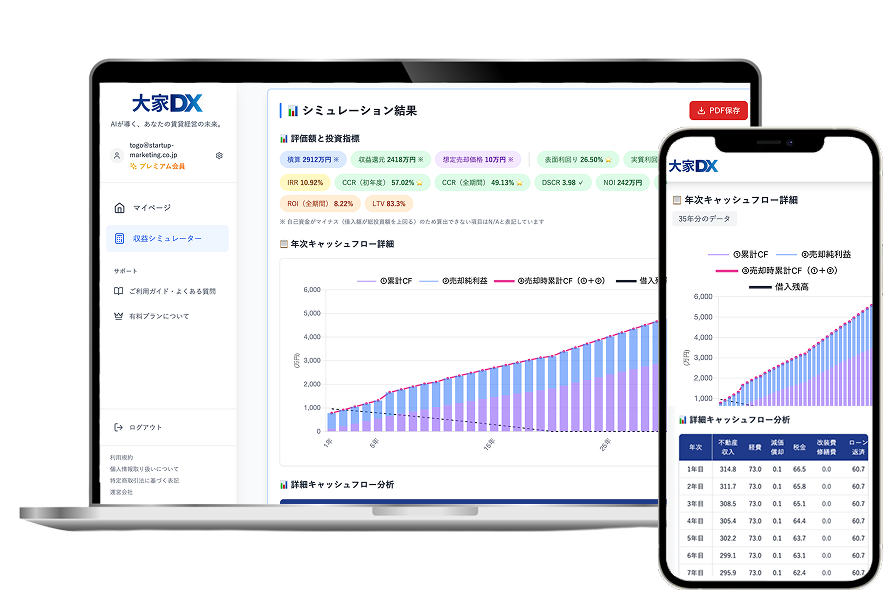
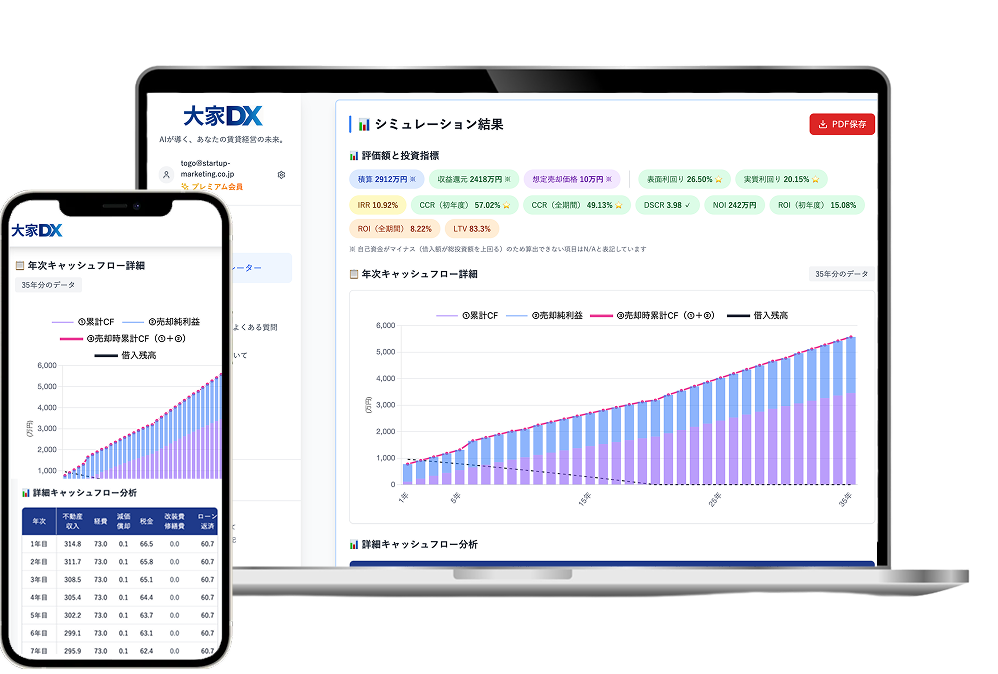
feat: ランディングページのコンテンツとデザインを改善
- ヒーローセクションのタイトルを「不動産投資シミュレーター」に変更
- サブタイトルを融資・税務関連の内容に更新
- 「大家DXとは？」セクションを追加し、サービス説明を充実化
- 機能説明を3つに拡張（1分分析、スマホ管理、出口＆PDF）
- メインビジュアル画像（kakushin_img01.png）を更新
- 画像配置とテキストレイアウトを最適化

🤖 Generated with [Claude Code](https://claude.ai/code)

Changed region(s): [[0.0, 0.0908, 1.0, 0.9983], [0.3345, 0.484, 0.3953, 0.605]]

diff --git a/bolt_front/src/pages/LandingPage.tsx b/bolt_front/src/pages/LandingPage.tsx
@@ -58,15 +58,21 @@ const LandingPage: React.FC = () => {
   const features = [
     {
       icon: Calculator,
-      title: "機能1. 1分で完了する物件分析",
-      description: "物件情報を入力するだけで、IRR・CCR・DSCRなどの投資指標を自動計算。もうExcelで悩む必要はありません。",
+      title: "機能1. 1分分析",
+      description: "入力は最小限。IRR/DSCR/LTV/NOI と 35年CF、3価を一括算出。",
       image: "/img/feature_1.png"
     },
     {
       icon: Smartphone,
-      title: "機能2. スマホで完結する資産管理",
-      description: "授乳中でも、通勤中でも。親指だけでサクサク操作できるモバイル完全対応設計。",
+      title: "機能2. スマホ完結の物件管理",
+      description: "物件の保存・比較／URL・写真・メモ。減価償却／資本的支出も自動反映。",
       image: "/img/feature_2.png"
+    },
+    {
+      icon: CheckCircle,
+      title: "機能3. 出口＆PDF",
+      description: "CapRate等から売却価格・残債・純利益を自動計算。主要指標／年次CFをPDF化。",
+      image: "/img/feature_3.png"
     }
   ];
 
@@ -157,16 +163,15 @@ const LandingPage: React.FC = () => {
         <div className="max-w-7xl mx-auto px-4 sm:px-6 lg:px-8 relative z-10">
           <div className="grid grid-cols-1 lg:grid-cols-2 gap-12 items-center">
             {/* 左側：メインコピー */}
-            <div className="text-center lg:text-left">
+            <div className="text-left">
               <div className="mb-6">
               </div>
               <h1 className="text-4xl md:text-5xl lg:text-6xl font-bold text-gray-900 mb-8" style={{ lineHeight: '1.4' }}>
-                <span className="text-3xl md:text-4xl lg:text-5xl" style={{ fontSize: '85%' }}>現役大家が開発した、</span><br />
-                <span className="text-5xl md:text-6xl lg:text-7xl">賃貸経営DX</span>
+                <span className="text-3xl md:text-4xl lg:text-5xl" style={{ fontSize: '85%' }}>現役大家が開発した</span><br />
+                <span className="text-5xl md:text-6xl lg:text-7xl">不動産投資<br />シミュレーター</span>
               </h1>
-              <p className="text-2xl lg:text-3xl text-gray-600 mb-10 leading-relaxed">
-                市場分析・収支シミュレーション・参考資料作成。<br />
-                すべて1分。
+              <p className="text-2xl lg:text-3xl text-gray-900 mb-10 leading-relaxed" style={{paddingLeft: '10px', paddingRight: '10px'}}>
+                融資・税務・修繕・出口戦略まで完全再現。プロも納得の高性能シミュレーター。
               </p>
               <div className="flex flex-col sm:flex-row gap-6 justify-center lg:justify-start mb-8">
                 <button
@@ -184,12 +189,12 @@ const LandingPage: React.FC = () => {
             </div>
             
             {/* 右側：画像 */}
-            <div className="flex justify-center lg:justify-end pr-4 sm:pr-6 lg:pr-8">
+            <div className="flex justify-center lg:justify-end">
               <img
                 src="/img/kakushin_img01.png"
                 alt="大家DX メインビジュアル"
-                className="w-full h-auto max-w-4xl transform"
-                style={{transform: 'scale(1.2) translateX(-15px)'}}
+                className="w-full h-auto max-w-3xl transform"
+                style={{transform: 'scale(1.2) translateX(50px)', marginLeft: '40px'}}
                 onError={(e) => {
                   const target = e.target as HTMLImageElement;
                   target.style.display = 'none';
@@ -201,6 +206,55 @@ const LandingPage: React.FC = () => {
               />
             </div>
           </div>
+        </div>
+      </section>
+
+      {/* 機能紹介セクション */}
+      <section id="features" className="py-24 bg-gradient-to-b from-gray-50 to-white">
+        <div className="max-w-7xl mx-auto px-4 sm:px-6 lg:px-8">
+          <div className="text-center mb-16">
+            <h2 className="text-5xl lg:text-6xl font-bold text-gray-900 mb-6 leading-tight">
+              大家DXとは？
+            </h2>
+            <p className="text-xl text-gray-900 max-w-4xl mx-auto leading-relaxed">
+              現役大家の判断軸を実装した高性能シミュレーター。融資・税務・修繕・出口を一体計算し、IRR/DSCR/LTV/NOIや35年CF、3価（積算/収益還元/想定売却）を1分で可視化。エクセル不要、銀行が重視する指標をワンクリック。
+            </p>
+          </div>
+          
+          {/* メインレイアウト: 左側PC画像、右側機能リスト */}
+          <div className="flex flex-col lg:flex-row items-center gap-16">
+            {/* 左側: PC画像 */}
+            <div className="w-full lg:w-3/5 lg:pl-0">
+              <div className="relative -ml-4 sm:-ml-6 lg:-ml-8">
+                <img
+                  src="/img/kakushin_img01.png"
+                  alt="大家DX システム画面"
+                  className="w-full h-auto rounded-xl"
+                  onError={(e) => {
+                    const target = e.target as HTMLImageElement;
[1 lines of base64/hex data omitted]
+                  }}
+                />
+              </div>
+            </div>
+            
+            {/* 右側: 機能リスト */}
+            <div className="w-full lg:w-2/5">
+              <div className="space-y-12">
+                {features.map((feature, index) => (
+                  <div key={index}>
+                    <h3 className="text-2xl font-bold text-gray-900 mb-4 leading-tight">
+                      {feature.title}
+                    </h3>
+                    <p className="text-gray-600 text-lg leading-relaxed">
+                      {feature.description}
+                    </p>
+                  </div>
+                ))}
+              </div>
+            </div>
+          </div>
+          
         </div>
       </section>
 
@@ -277,55 +331,6 @@ const LandingPage: React.FC = () => {
               どのタイプでも、<span className="font-bold text-blue-600">1分でシミュレーション体験</span>できます
             </p>
           </div>
-        </div>
-      </section>
-
-      {/* 機能紹介セクション */}
-      <section id="features" className="py-24 bg-gradient-to-b from-gray-50 to-white">
-        <div className="max-w-7xl mx-auto px-4 sm:px-6 lg:px-8">
-          <div className="text-center mb-16">
-            <h2 className="text-5xl lg:text-6xl font-bold text-gray-900 mb-6 leading-tight">
-              2つの革新的機能
-            </h2>
-            <p className="text-2xl text-gray-600 max-w-3xl mx-auto leading-relaxed">
-              現役大家が実際に使いながら開発した、本当に必要な機能だけを厳選。
-            </p>
-          </div>
-          
-          {/* メインレイアウト: 左側PC画像、右側機能リスト */}
-          <div className="flex flex-col lg:flex-row items-center gap-16">
-            {/* 左側: PC画像 */}
-            <div className="w-full lg:w-3/5 lg:pl-0">
-              <div className="relative -ml-4 sm:-ml-6 lg:-ml-8">
-                <img
-                  src="/img/kakushin_img01.png"
-                  alt="大家DX システム画面"
-                  className="w-full h-auto rounded-xl"
-                  onError={(e) => {
-                    const target = e.target as HTMLImageElement;
[1 lines of base64/hex data omitted]
-                  }}
-                />
-              </div>
-            </div>
-            
-            {/* 右側: 機能リスト */}
-            <div className="w-full lg:w-2/5">
-              <div className="space-y-12">
-                {features.map((feature, index) => (
-                  <div key={index}>
-                    <h3 className="text-2xl font-bold text-gray-900 mb-4 leading-tight">
-                      {feature.title}
-                    </h3>
-                    <p className="text-gray-600 text-lg leading-relaxed">
-                      {feature.description}
-                    </p>
-                  </div>
-                ))}
-              </div>
-            </div>
-          </div>
-          
         </div>
       </section>
 
